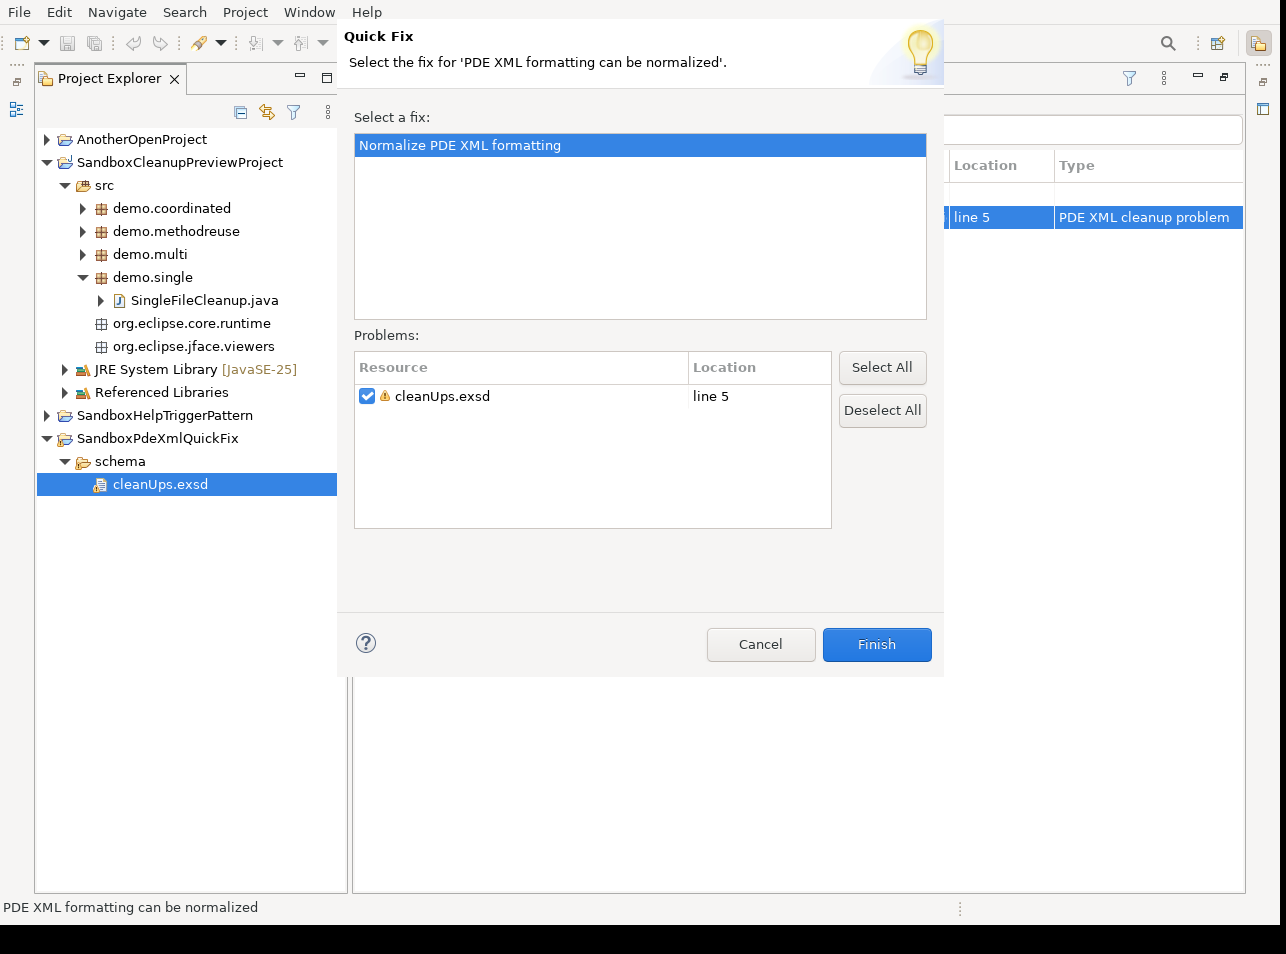
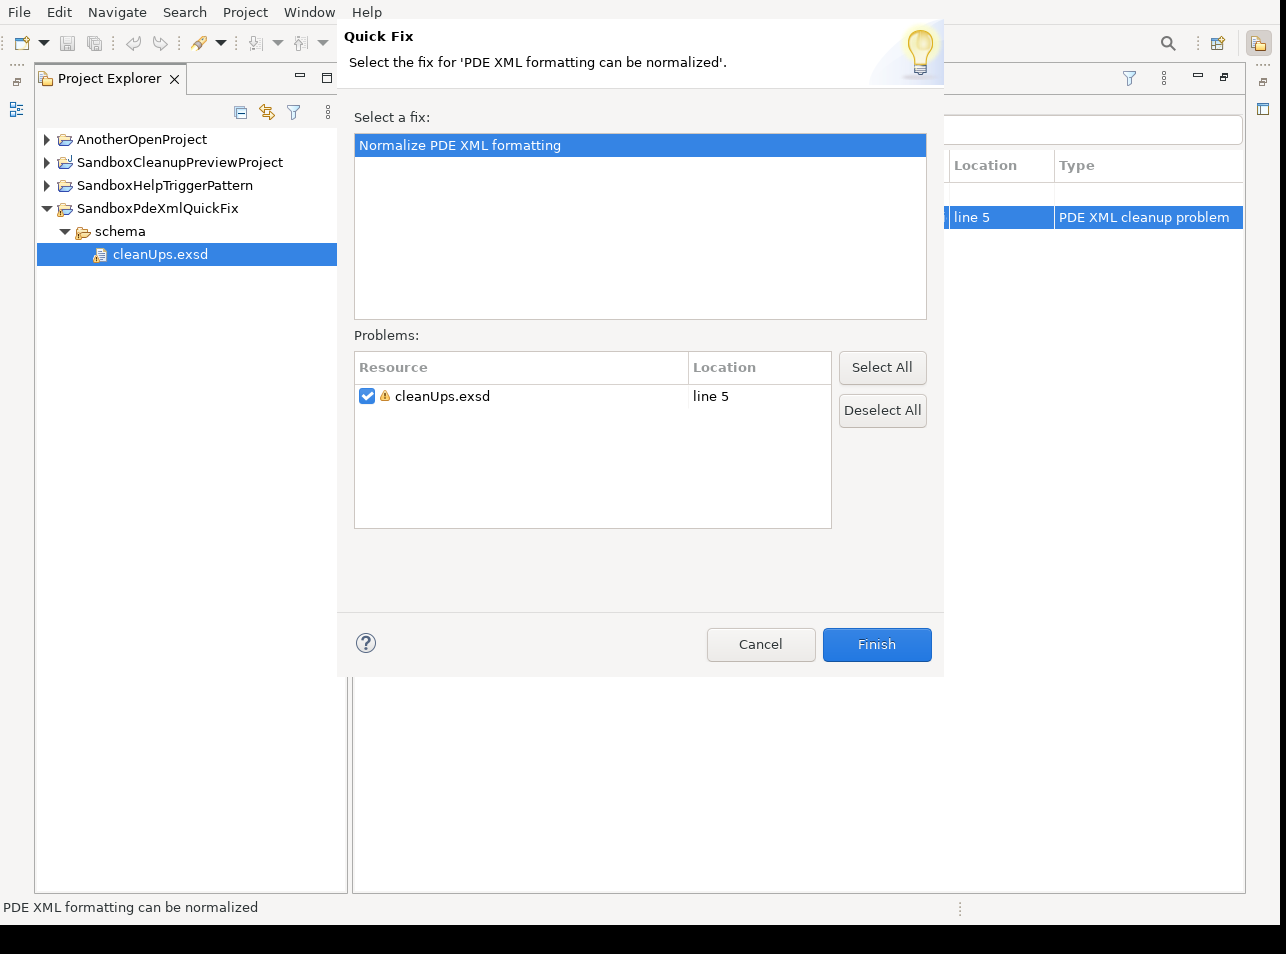
Pin the verified Regelsuche quadratic-root SDK source (#1990)
* Pin the verified Regelsuche quadratic-root SDK source

* Retain genuine Help capture provenance for the refreshed SDK

Changed region(s): [[0.0311, 0.1824, 0.2799, 0.5472]]

diff --git a/sandbox_eclipse_help_swtbot_test/src/org/sandbox/jdt/ui/helper/views/SandboxHelpScreenshotsMergeGateSWTBotTest.java b/sandbox_eclipse_help_swtbot_test/src/org/sandbox/jdt/ui/helper/views/SandboxHelpScreenshotsMergeGateSWTBotTest.java
@@ -1,5 +1,6 @@
 package org.sandbox.jdt.ui.helper.views;
 
+import static org.junit.jupiter.api.Assertions.assertFalse;
 import static org.junit.jupiter.api.Assertions.assertTrue;
 
 import java.io.IOException;
@@ -46,6 +47,7 @@ import org.sandbox.jdt.ui.tests.quickfix.rules.EclipseBundleClasspath;
 public class SandboxHelpScreenshotsMergeGateSWTBotTest {
 
 	private static final String CLEANUP_PREVIEW_PROJECT= "SandboxCleanupPreviewProject"; //$NON-NLS-1$
+	private static final String PROJECT_EXPLORER_VIEW= "org.eclipse.ui.navigator.ProjectExplorer"; //$NON-NLS-1$
 	private static final String PROBLEMS_VIEW= "org.eclipse.ui.views.ProblemView"; //$NON-NLS-1$
 	private static final String REFACTORING_MINING_VIEW= "org.sandbox.jdt.views.refactoringMining"; //$NON-NLS-1$
 	private static final List<String> SHADOW_PLATFORM_SOURCES= List.of(
@@ -128,8 +130,13 @@ public class SandboxHelpScreenshotsMergeGateSWTBotTest {
 	@Test
 	@Order(7)
 	public void capturePdeXmlMarkerQuickFix() throws Exception {
+		SWTBotTree explorer= new SWTWorkbenchBot().viewById(PROJECT_EXPLORER_VIEW).bot().tree();
+		explorer.getTreeItem(CLEANUP_PREVIEW_PROJECT).expand();
+		assertTrue(explorer.getTreeItem(CLEANUP_PREVIEW_PROJECT).isExpanded());
 		showView(PROBLEMS_VIEW);
 		PdeXmlQuickFixScreenshot.capture();
+		assertFalse(explorer.getTreeItem(CLEANUP_PREVIEW_PROJECT).isExpanded(),
+				"The PDE marker capture must collapse the unrelated Java project"); //$NON-NLS-1$
 	}
 
 	@Test

diff --git a/sandbox_eclipse_help_swtbot_test/src/org/sandbox/jdt/ui/helper/views/PdeXmlQuickFixScreenshot.java b/sandbox_eclipse_help_swtbot_test/src/org/sandbox/jdt/ui/helper/views/PdeXmlQuickFixScreenshot.java
@@ -1,4 +1,4 @@
-/*******************************************************************************
+/*
  * Copyright (c) 2026 Carsten Hammer.
  *
  * This program and the accompanying materials
@@ -119,6 +119,12 @@ final class PdeXmlQuickFixScreenshot {
 			SWTBotView explorer= bot.viewById(PROJECT_EXPLORER_VIEW);
 			explorer.show();
 			SWTBotTree explorerTree= explorer.bot().tree();
+			// Keep unrelated projects visible as roots without exposing host-specific JRE labels.
+			for (SWTBotTreeItem item : explorerTree.getAllItems()) {
+				if (!PROJECT_NAME.equals(item.getText()) && item.isExpanded()) {
+					item.collapse();
+				}
+			}
 			SWTBotTreeItem fileItem= explorerTree.getTreeItem(PROJECT_NAME).expand()
 					.getNode("schema").expand().getNode("cleanUps.exsd"); //$NON-NLS-1$ //$NON-NLS-2$
 			explorerTree.setFocus();

diff --git a/qa/math-optimization/README.md b/qa/math-optimization/README.md
@@ -74,6 +74,14 @@ establish a general full-call speedup, constant-time behavior or performance
 on another JVM or machine. Reproduce with the command above before making a
 deployment-specific decision.
 
+The Regelsuche SDK pin to `6bcddc0931e1e3139edf3a9fca5bc87635b1e6ac`
+was requalified against the previous pin at `dc46d59d015f4d1ae68ef134e4ded5a00c4b2a5a`.
+On the pinned Bouncy Castle input, the two ordinary Apply runs produced the
+same 742 source and class files byte for byte, including all guards and
+fallbacks. For 64 candidate pairs, the newer search reported 1,003,408 work
+units versus 504,157 before. That difference concerns acquisition inside the
+optimizer. The complete calls after Apply run identical code.
+
 ## Explicit compiler diagnostics
 
 Archive scanners use the [shared strict compiler profile](../../sandbox_math_cleanup_test/ARCHITECTURE.md#compiler-diagnostics).
